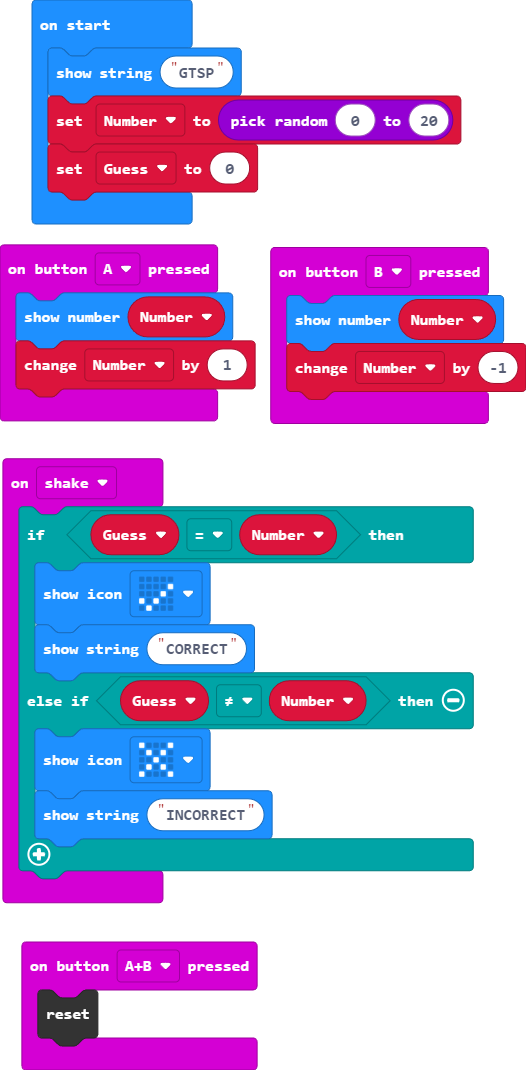
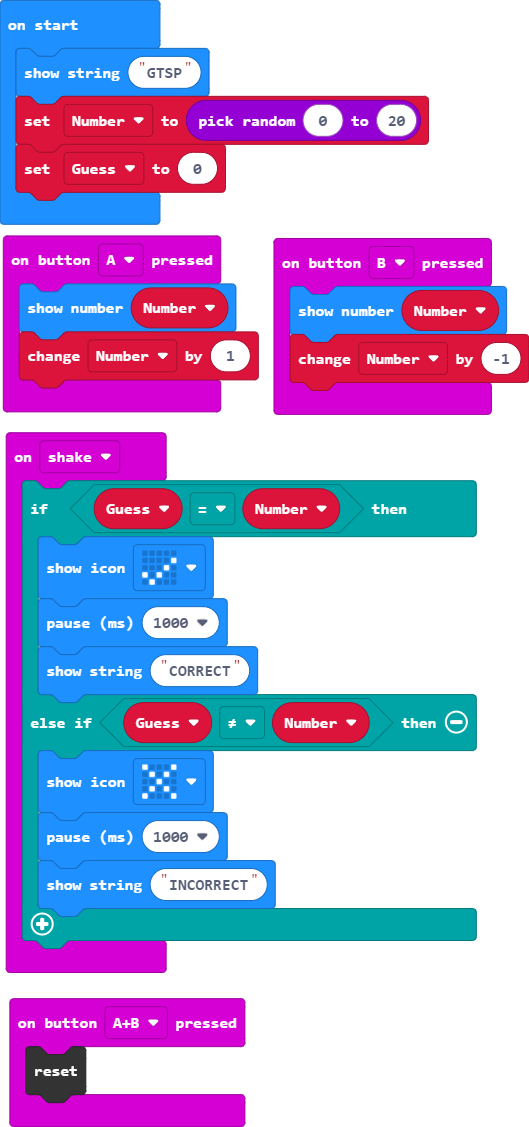
Update main.blocks, main.ts

diff --git a/main.ts b/main.ts
@@ -12,9 +12,11 @@ input.onButtonPressed(Button.B, function () {
 input.onGesture(Gesture.Shake, function () {
     if (Guess == Number2) {
         basic.showIcon(IconNames.Yes)
+        basic.pause(1000)
         basic.showString("CORRECT")
     } else if (Guess != Number2) {
         basic.showIcon(IconNames.No)
+        basic.pause(1000)
         basic.showString("INCORRECT")
     }
 })
